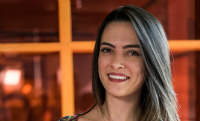
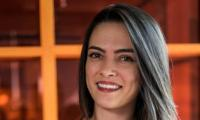
- Inclusão de novos palestrantes - Remoção de imagens de palestrantes antigos/as - Inclusão de uma página de listagem de palestrantes - Correção das miniaturas de palestrantes no slider da página inicial

diff --git a/palestrantes.html b/palestrantes.html
@@ -1,0 +1,93 @@
+--- 
+layout: page
+title: Palestrantes
+---
+
+<div class="main-block">
+        <div class="container">
+                <div class="row">
+                    <div class="col-xs-12 col-sm-10 col-sm-offset-1 col-md-8 col-md-offset-2">
+                        <div class="block-header">
+                            <h4 class="block-category">Palestrantes</h4>
+                            <h2 class="block-title">Participações confirmadas</h2>
+                        </div>
+                    </div>
+                </div>
+            </div>
+
+
+
+    <div class="container">
+            {% assign count = -1 %} {% assign speakers = site.data.speakers %} 
+            {% for tmp in speakers  %} {% assign speaker = tmp[1] %}
+            {% capture count %}{{ count | plus: '1' }}{% endcapture %}
+            <div class="row loop">
+                    <div class="col-xs-2">
+                        <div >
+                                <img  src="assets/img/speakers/{{ speaker.avatar }}" alt="{{ speaker.name }}" width="200px">
+                        </div>
+                    </div>
+                    <div class="col-xs-10">
+                        <div class="bio-list">
+                                <div class="speaker-title dark" title="Nome Palestrante">{{ speaker.name }}</div>         
+                                <div class="speaker-text strong dark" title="Título da Palestra">
+                                        <p>Palestra: {{ speaker.title }}</p>
+                                    </div>
+                                
+                                {% assign talk_url = site.url | append: "/speakers/" | append: speaker.url %}
+
+                                <div class="speaker-text dark" title="Biografia Palestrante">
+                                    <p>{{ speaker.bio }} <a href="{{ talk_url }}" title="Ler dados completos da palestra"> Leia mais</a></p>
+                                    
+                                </div>
+                        </div>
+                    </div>
+                </div>
+        
+            {% endfor %}
+        
+
+    </div>
+</div>
+
+<!-- TICKETS -->
+<div id="tickets" class="main-block style-2">
+        <div class="container">
+            <div class="row">
+                <div class="col-xs-12">
+                    <div class="block-header no-margin">
+              
+                        <h2 class="block-title">Garanta seu lugar</h2>
+                    </div>
+                </div>
+            </div>
+            <div class="row no-margin">
+                {% for ticket in site.data.tickets %} {% capture count %}{{ count | plus: '1' }}{% endcapture %}
+                <div class="no-padding col-xs-12 col-sm-4">
+                    <div class="price {{ ticket.position }}">
+                        <div class="price-top">
+                            <h4 class="price-title">{{ ticket.title }}</h4>
+                            <div class="price-category">{{ ticket.period }}</div>
+                            <div class="price-per">
+                                <sup>R$</sup>{{ ticket.price }}</div>
+                            <div class="price-desc">{{ ticket.amount }}</div>
+                        </div>
+                        {% if ticket.enabled %}
+                        <div class="price-bottom">
+                            <a class="register-link c-btn b-50 yellow-2 hv-yellow" href="{{ ticket.buy }}" target="_blank">Comprar</a>
+                        </div>
+                        {% else %}
+                        <div class="price-bottom disabled">
+                            {% if ticket.soldout %}
+                            <span class="register-link c-btn b-50" href="#">Esgotado</span>
+                            {% else %}
+                            <span class="register-link c-btn b-50" href="#">Em breve</span>
+                            {% endif %}
+                        </div>
+                        {% endif %}
+                    </div>
+                </div>
+                {% endfor %}
+            </div>
+        </div>
+    </div> 

diff --git a/_includes/speakers.html b/_includes/speakers.html
@@ -15,8 +15,10 @@
             style="height: 569px !important">
             <div class="swiper-wrapper">
 
-                {% assign count = -1 %} {% assign speakers = site.data.speakers %} 
-                {% for tmp in speakers %} {% assign speaker = tmp[1] %}
+                {% assign count = -1 %} 
+                {% assign speakers = site.data.speakers %} 
+                {% for tmp in speakers %} 
+                {% assign speaker = tmp[1] %}
                 {% capture count %}{{ count | plus: '1' }}{% endcapture %}
                 <div class="swiper-slide" data-val="{{count}}">
                     <div class="speaker-img">
@@ -101,7 +103,11 @@
         <div class="swiper-container thumbnails" data-autoplay="0" data-loop="0" data-speed="500" data-center="0" data-slides-per-view="auto"
             data-mob-slides="3" data-xs-slides="4" data-sm-slides="6" data-md-slides="7" data-lg-slides="8" data-add-slides="12">
             <div class="swiper-wrapper">
-                {% assign count = -1 %} {% for speaker in speakers %} {% capture count %}{{ count | plus: '1' }}{% endcapture %}
+                {% assign count = -1 %} 
+                {% assign speakers = site.data.speakers %} 
+                {% for tmp in speakers %} 
+                {% assign speaker = tmp[1] %}
+                {% capture count %}{{ count | plus: '1' }}{% endcapture %}
                 <div class="swiper-slide" data-val="{{ count }}">
                     <img class="img-responsive img-full" src="assets/img/speakers/thumbs/{{ speaker.avatar }}" alt="{{ speaker.name }}">
                     <div class="thumb-desc">

diff --git a/_layouts/default.html b/_layouts/default.html
@@ -16,7 +16,11 @@ newsletter_background_image: 'https://source.unsplash.com/c8ET5XvBwnU/2000x1322?
     {% if page.speaker.title %}
         <meta content="{{ page.speaker.name }}: {{ page.speaker.title }} | DevDay 2018" property="og:title">
         <title>{{ page.speaker.name }}: {{ page.speaker.title }} | DevDay 2018</title>
-    {% else %}
+
+    {% else if page.title %}
+      <meta content="{{ page.title }}" property="og:title">
+      <title>{{ page.title }} | DevDay 2018 | Belo Horizonte</title>
+      {% else %}
       <meta content="{{ site.title }}" property="og:title">
       <title>DevDay 2018 | Belo Horizonte</title>
     {% endif %}

diff --git a/assets/css/style.css b/assets/css/style.css
@@ -1818,3 +1818,20 @@ ul.share-btns .sr-only{
   width: 1px;
   overflow: hidden;
 }
+
+.dark {
+  color: #000;
+}
+
+.row.loop {
+  padding-bottom: 30px;
+}
+
+.bio-list {
+  padding-left: 20px;
+}
+
+.block-header.no-margin {
+  margin-top: 0px !important;
+  padding-top: 0px !important;
+}

diff --git a/_plugins/speakers.rb b/_plugins/speakers.rb
@@ -17,7 +17,7 @@ module Jekyll
 
     def get_speakers(site)
       {}.tap do |speakers|
-        Dir['_speakers/*.yml'].each do |path|
+        Dir['_speakers/*.yml'].sort.each do |path|
           name   = File.basename(path, '.yml')
           config = YAML.load(File.read(File.join(@base, path)))
           speakers[name] = config
